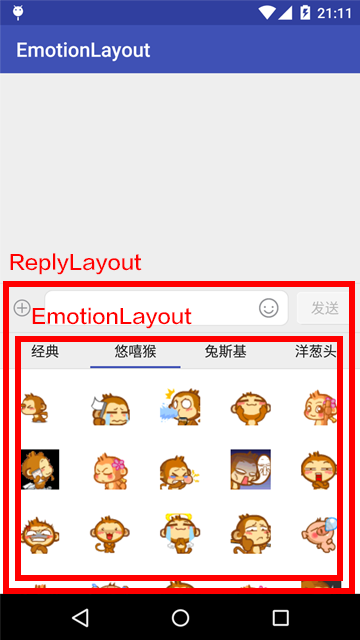
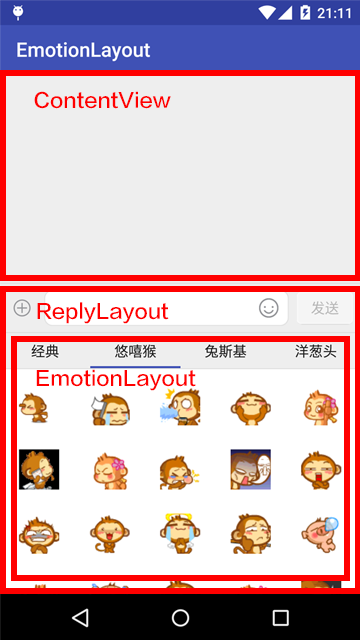
update README file

Changed region(s): [[0.0, 0.0938, 1.0, 0.9375], [0.0917, 0.5625, 0.55, 0.625]]

diff --git a/README_en.md b/README_en.md
@@ -25,65 +25,62 @@ Add the dependency in the form:
 
 ~~~
 dependencies {
-	compile 'com.github.dss886:Android-EmotionInputDetector:v0.1.4'
+	compile 'com.github.dss886:Android-EmotionInputDetector:v0.2.0'
 }
 ~~~
 
 ## Usage
 
-1.Edit SoftInputMode in your Activity:
+1.Make sure the root layout of your activity is a LinearLayout, and there are a view/layout of variable height in it (like a ListView or a RelativeLayout). Set the height-variable view/layout's layout_height as 0 and the layout_weight as 1
+
+2.Add your custom emotion-input layout at the bottom of your activity layout:
 
 ~~~xml
-android:name=".MainActivity"
-android:windowSoftInputMode="adjustPan"
-~~~
-
-2.Add an custom layout at the bottom of your activity layout:
-
-~~~xml
-<include
-    layout="@layout/reply_layout"
+<LinearLayout xmlns:android="http://schemas.android.com/apk/res/android"
     android:layout_width="match_parent"
-    android:layout_height="wrap_content"
-    android:layout_alignParentBottom="true"/>
+    android:layout_height="match_parent"
+    android:orientation="vertical" >
+
+    <ListView
+        android:id="@+id/list"
+        android:layout_width="match_parent"
+        android:layout_height="0dp"
+        android:layout_weight="1"
+        />
+
+    <include
+		layout="@layout/reply_layout"
+		android:layout_width="match_parent"
+		android:layout_height="wrap_content"/>
+
+</LinearLayout>
 ~~~
 
-then custom your reply_layout.xml to show editText and emotion layout (e.g using a ViewPager)
+3.then custom your reply_layout.xml to show editText and emotion layout (e.g using a ViewPager as the Sample module)
 
-3.Use EmotionInputDetector
+4.Use EmotionInputDetector
 
 ~~~java
 EmotionInputDetector.with(this)
-		.setEmotionView(R.id.emotion_layout)
-		.bindToEmotionButton(R.id.emotion_button)
-		.bindToEditText(R.id.edit_text)
-		.build();
+	    .setEmotionView(emotionView)
+	    .bindToContent(contentView)
+	    .bindToEditText(editText)
+	    .bindToEmotionButton(emotionButton)
+	    .build();
 ~~~
 
-There are 3 ResIds:
+There are 4 views:
 
-- emotion_layout: the layout showing emotions, which will be covered when soft keyboard shows.
-- emotion_button: the button to switch emotion layout's visibility.
-- edit_text: the EditText need to bind.
+- emotionView: the layout to show clickable emotions.
+- contentView: the height-variable view/layout in the root layout.
+- editText: the EditText need to bind.
+- emotionButton: the button to switch emotion layout's visibility.
 
 the relationship of these views:
 
 ![](/01.png)
 
 ![](/02.png)
-
-## A Small Bug
-
-The first time entering the activity, emotion layout may not function properly.
-
-(It is because that we need to change the height of emotion layout dynamicly and used SharedPreference to save the value, if entering the activity but the value doesn't exist may cause the problem)
-
-Use the methods below to detect the height of the soft keyboard before you enter the activity (e.g in a login activity) will prevent the problem happened.
-
-~~~java
-EmotionInputDetector.with(this)
-		.detectorSoftInputHeight(editText);
-~~~
 
 ## License
 

diff --git a/README.md b/README.md
@@ -25,65 +25,62 @@ allprojects {
 
 ~~~
 dependencies {
-	compile 'com.github.dss886:Android-EmotionInputDetector:v0.1.4'
+	compile 'com.github.dss886:Android-EmotionInputDetector:v0.2.0'
 }
 ~~~
 
 ## Usage
 
-1.对所在的Activity配置SoftInputMode：
+1.保证整个布局文件根布局为LinearLayout，其中有高度可变化的组件（比如一个ListView或一个RelativeLayout），将其layout_height设为0，将layout_weight设为1
+
+2.然后在布局文件的最下方中加入表情输入框的layout
 
 ~~~xml
-android:name=".MainActivity"
-android:windowSoftInputMode="adjustPan"
-~~~
-
-2.在布局文件的最下方中加入表情输入框的layout：
-
-~~~xml
-<include
-    layout="@layout/reply_layout"
+<LinearLayout xmlns:android="http://schemas.android.com/apk/res/android"
     android:layout_width="match_parent"
-    android:layout_height="wrap_content"
-    android:layout_alignParentBottom="true"/>
+    android:layout_height="match_parent"
+    android:orientation="vertical" >
+
+    <ListView
+        android:id="@+id/list"
+        android:layout_width="match_parent"
+        android:layout_height="0dp"
+        android:layout_weight="1"
+        />
+
+    <include
+		layout="@layout/reply_layout"
+		android:layout_width="match_parent"
+		android:layout_height="wrap_content"/>
+
+</LinearLayout>
 ~~~
 
-然后新建一个reply_layout，其中的布局可完全自定义，比如使用ViewPager
+3.然后新建一个reply_layout，其中的布局可完全自定义，如Sample项目使用了一个ViewPager
 
-3.使用EmotionInputDetector
+4.使用EmotionInputDetector
 
 ~~~java
 EmotionInputDetector.with(this)
-		.setEmotionView(R.id.emotion_layout)
-		.bindToEmotionButton(R.id.emotion_button)
-		.bindToEditText(R.id.edit_text)
-		.build();
+	    .setEmotionView(emotionView)
+	    .bindToContent(contentView)
+	    .bindToEditText(editText)
+	    .bindToEmotionButton(emotionButton)
+	    .build();
 ~~~
 
-一共需要三个ResId：
+这里一共需要设置四个View：
 
-- emotion_layout: 显示表情输入框的Layout，正常输入时会被软键盘覆盖的部分
-- emotion_button: 点击显示/隐藏表情输入框的按钮
-- edit_text: 需要绑定的EditText
+- emotionView: 显示表情框的Layout
+- contentView: 根布局中高度可变化的组件 (如Usage#1中的listview)
+- editText: 需要绑定的EditText
+- emotionButton: 点击显示/隐藏表情框的按钮
 
 这些View的关系：
 
 ![](/01.png)
 
 ![](/02.png)
-
-## A Small Bug
-
-在第一次进入该页面时，显示表情框高度可能会不正常。
-
-（这是因为需要根据软键盘的高度动态改变表情框的显示高度，并使用了SharedPreference来保存该值，第一次进入页面该高度不存在就会导致显示错误）
-
-在进入表情框页面前在一个有软键盘弹出的界面（比如说，登陆界面）调用下面的方法探测一次其高度可以防止这个问题发生
-
-~~~java
-EmotionInputDetector.with(this)
-		.detectorSoftInputHeight(editText);
-~~~
 
 ## License
 
